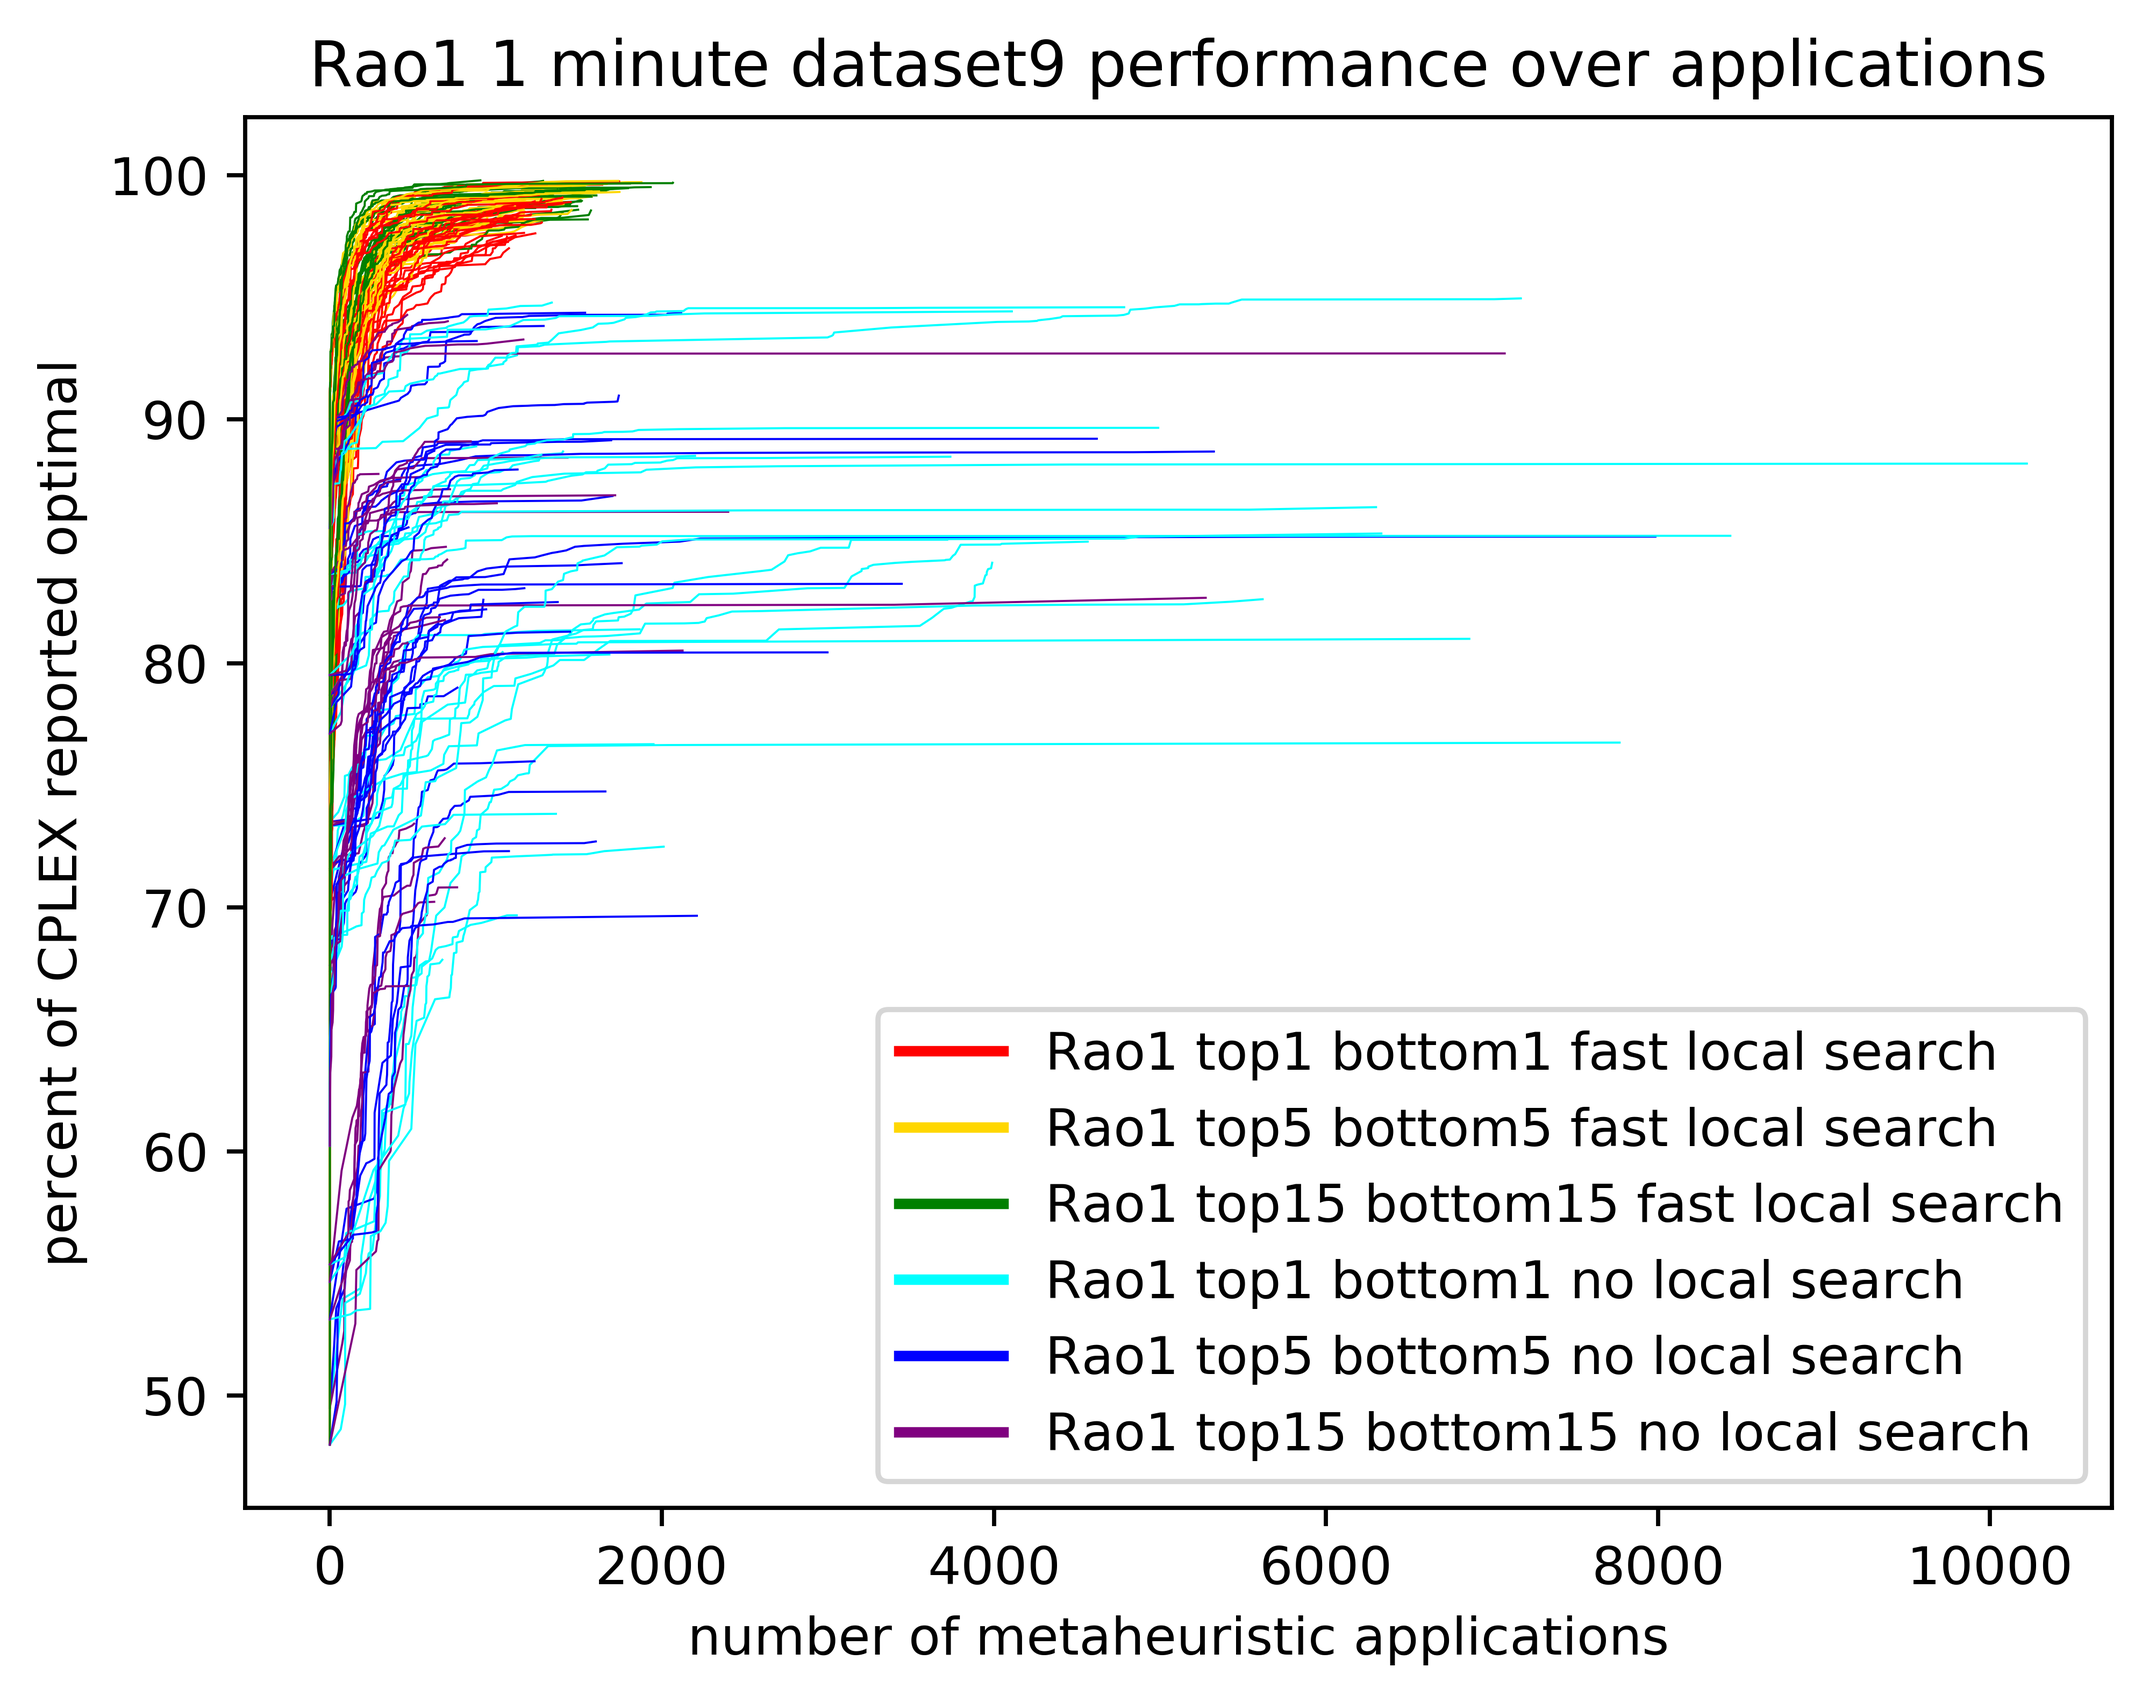
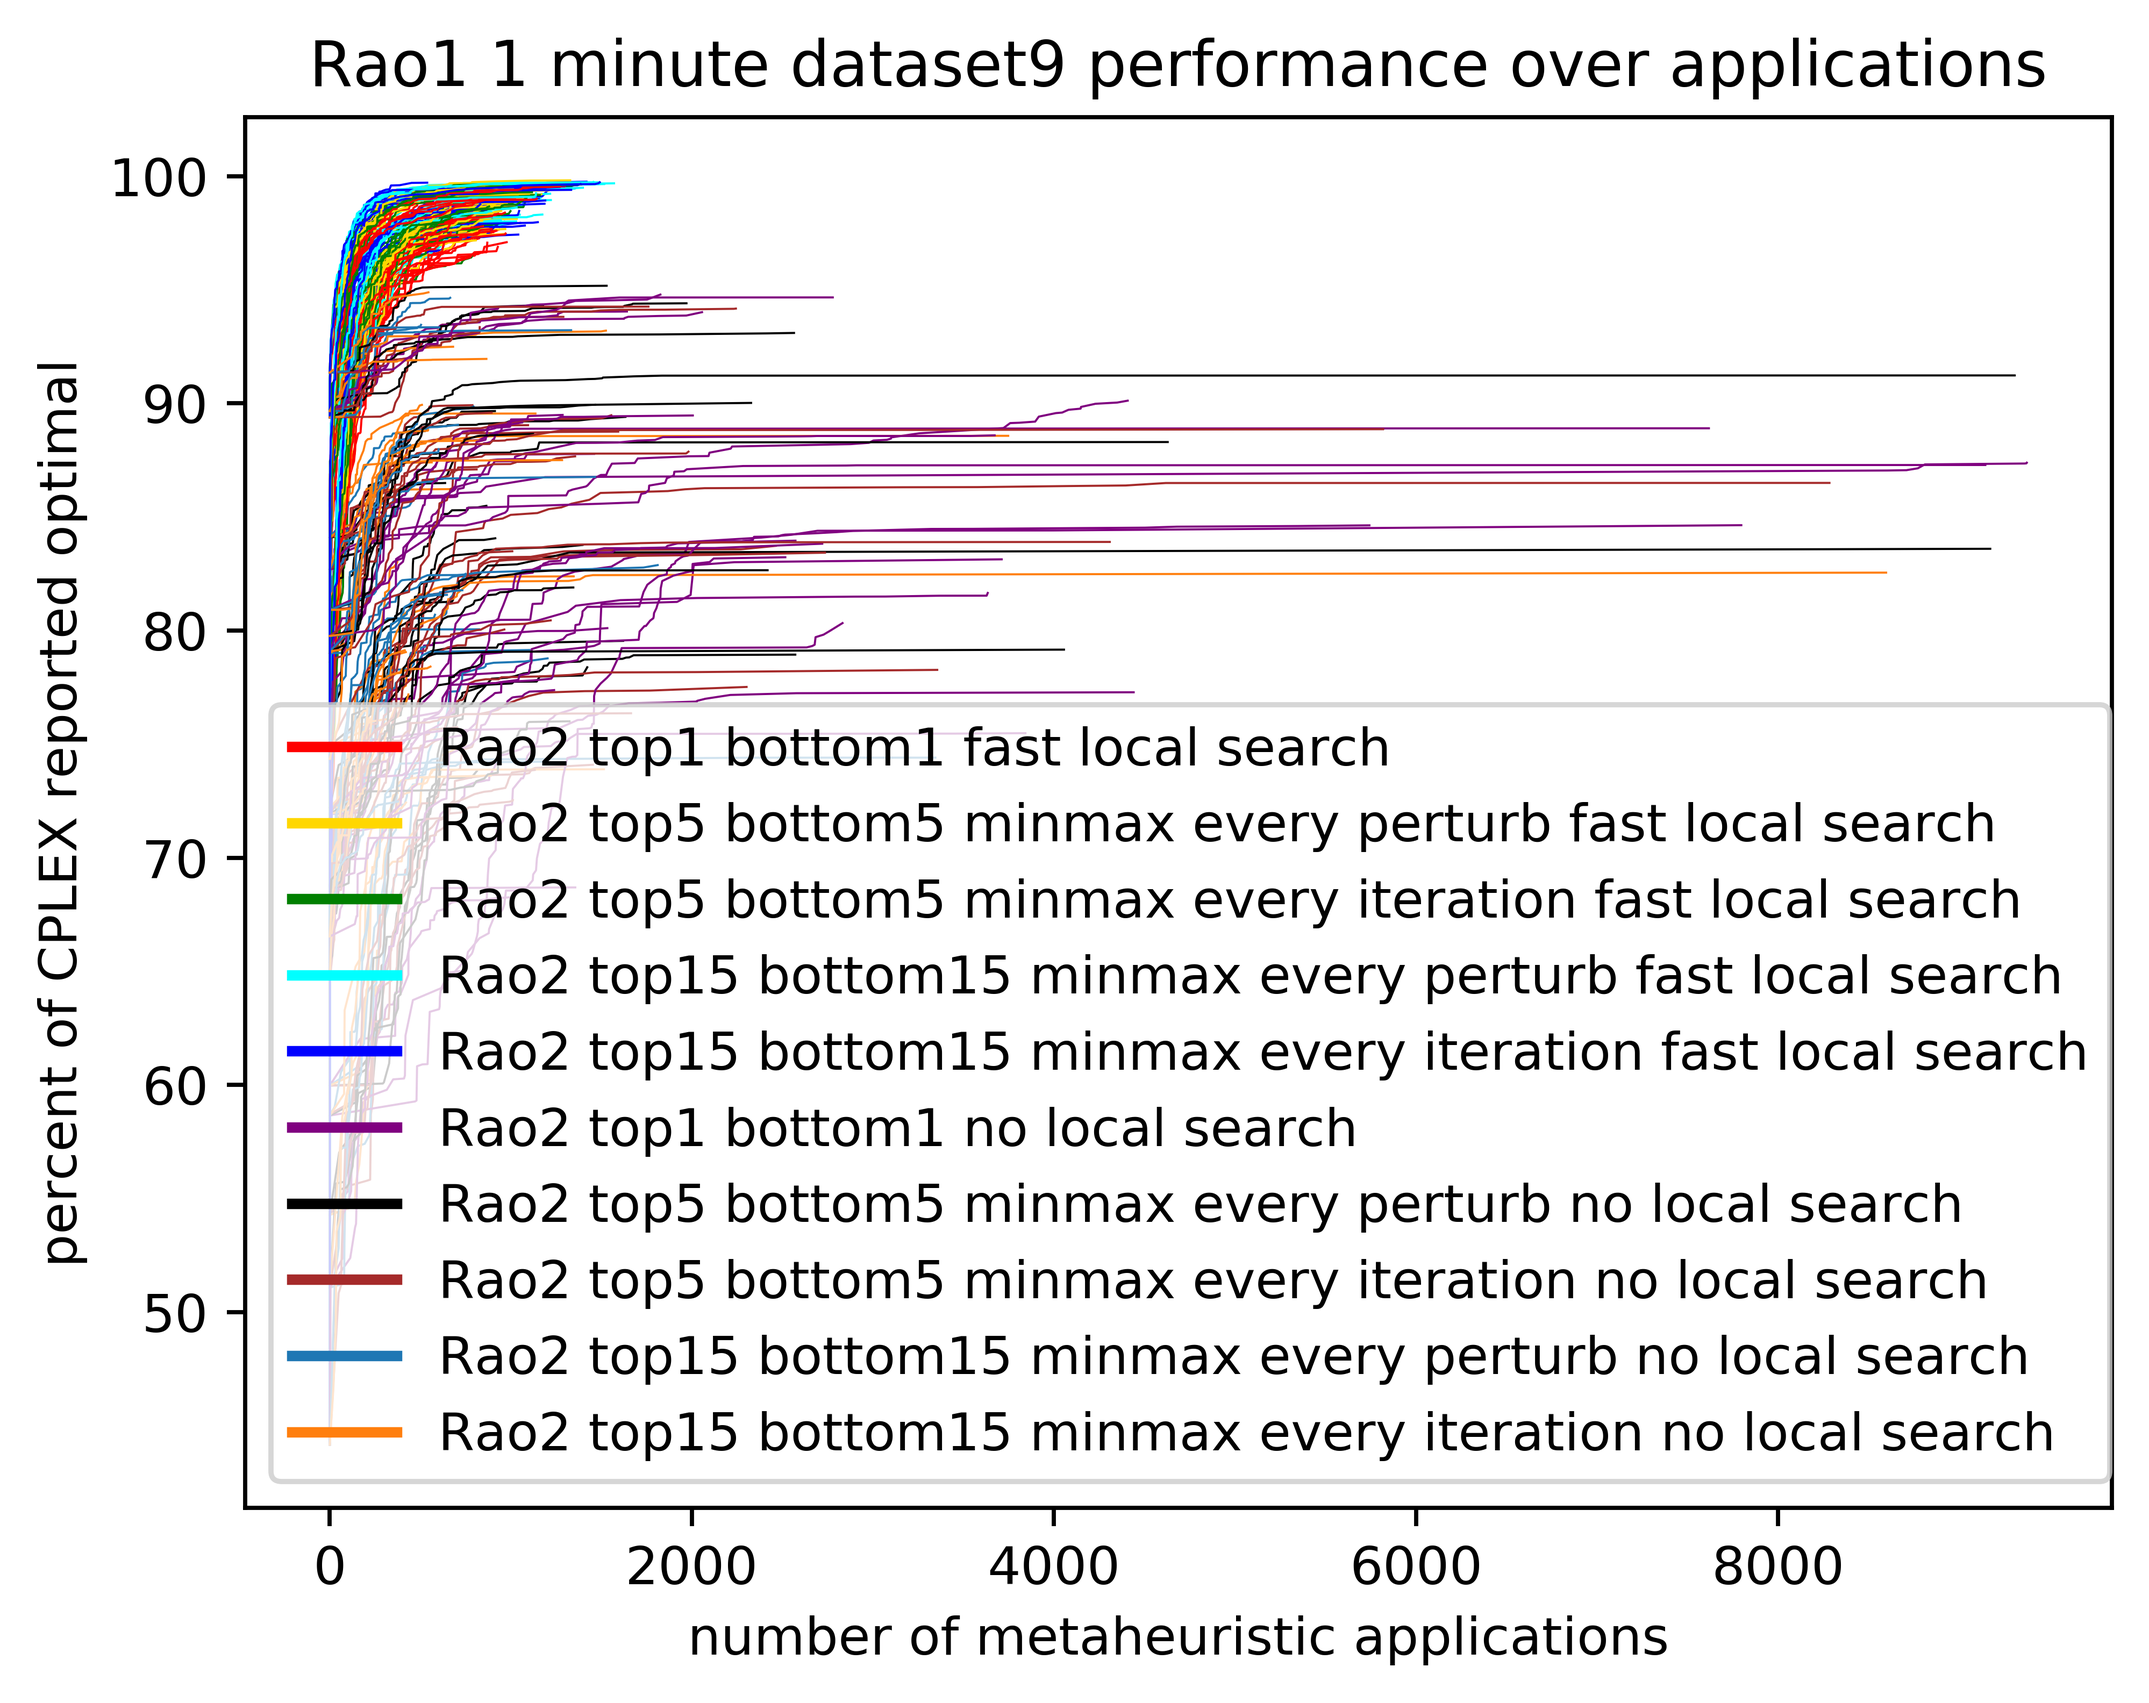
made graphs

diff --git a/helpers/graph_impgens.py b/helpers/graph_impgens.py
@@ -5,7 +5,7 @@ from matplotlib.lines import Line2D
 
 from matplotlib import pyplot as plt
 
-results_dir = "../results/Rao1_ds9_minute"
+results_dir = "../results/rao2_results"
 OPTS_PATH = "../benchmark_problems/new_opts.json"
 
 def make_opt_dict_cfo():
@@ -51,7 +51,7 @@ def apply_maxapps_cutoff(applications, percentages, maxapps):
 
 opt_dict = make_opt_dict_cfo()
 
-color_list = ["red", "gold", "green", "cyan", "blue", "purple", "black", "brown"]
+color_list = ["red", "gold", "green", "cyan", "blue", "purple", "black", "brown", "tab:blue", "tab:orange", "tab:green"]
 next_color_to_use = 0
 color_map = {}
 

diff --git a/helpers/dense_rep.py b/helpers/dense_rep.py
@@ -3,7 +3,7 @@ import json, os
 import numpy as np
 
 """Define results dir"""
-RESULTS_DIR = "../results/Rao1_ds9_minute"
+RESULTS_DIR = "../results/rao2_results"
 
 """convert from index major order to case first order"""
 def switch_order(results):
@@ -15,7 +15,7 @@ def switch_order(results):
 
 
 """create workbook"""
-workbook = xlsxwriter.Workbook('rao1_ds9_minute.xlsx', {'nan_inf_to_errors': True})
+workbook = xlsxwriter.Workbook('rao2_new_60s.xlsx', {'nan_inf_to_errors': True})
 
 """define xlsxwrite formats"""
 percentage_format = workbook.add_format({'num_format': '0.00%'})
